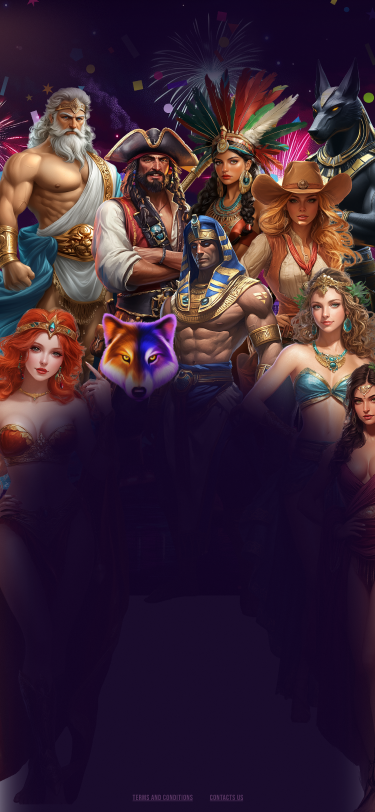
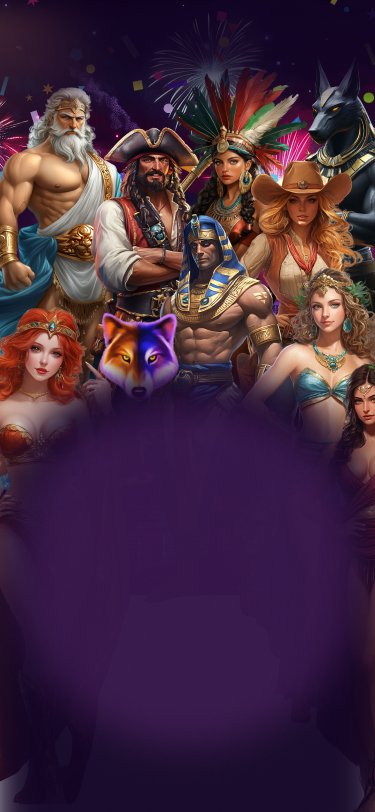
m

Changed region(s): [[0.0587, 0.4926, 0.9387, 0.9236], [0.352, 0.9544, 0.4693, 0.9852], [0.5573, 0.9544, 0.616, 0.9852]]

diff --git a/src/App.css b/src/App.css
@@ -1,4 +1,31 @@
-.App {
+
+.App-link{
+  width: 252px;
+  height: 67px;
+  margin-top: -190px;
+  padding: 10px 20px;
+  font-size: 16px;
+  z-index: 666;
+  cursor: pointer;
+  background-image: url('./button_bg.png');
+  background-size: contain;
+  background-repeat: no-repeat;
+  background-color: transparent;
+  border: none;
+  font-family: 'Bebas Neue';
+  color: #2C0068;
+  font-size: 32px;
+  font-weight: bold;
+  line-height: 38.4px;
+  letter-spacing: 1.93px;
+  background-position: center center;
+  text-decoration: none;
+  padding: 0;
+  display: flex;
+  justify-content: center;
+  align-items: center;
+  z-index: 600000000;
+}.App {
   text-align: center;
   padding: 0;
   margin: 0;
@@ -10,7 +37,7 @@
   font-style: normal;
 }
 
-/* In your App.css */
+
 
 body{
   background-image: url('./bg_desktop.png');
@@ -84,9 +111,277 @@ body{
   color: white;
 }
 
-.App-link {
-  color: #61dafb;
+
+
+.App-button {
+  width: 252px;
+  height: 67px;
+  margin-top: -190px;
+  padding: 10px 20px;
+  font-size: 16px;
+  z-index: 6000;
+  cursor: pointer;
+  background-image: url('./button_bg.png');
+  background-size: contain;
+  background-repeat: no-repeat;
+  background-color: transparent;
+  border: none;
+  font-family: 'Bebas Neue';
+  color: #2C0068;
+  font-size: 32px;
+  font-weight: bold;
+  line-height: 38.4px;
+  letter-spacing: 1.93px;
+  background-position: center center;
+  z-index: 60000;
 }
+.links{
+  
+  display: flex;
+  width: 209px;
+  margin: auto;
+  margin-top: 52px;
+  z-index: 2000;
+  justify-content: space-between;
+}
+.links a{
+  font-family: 'Bebas Neue';
+
+  font-size: 14px;
+  color: #583562;
+  text-decoration: underline;
+  font-weight: bolder;
+  letter-spacing: 0.7px;
+
+}
+
+.left-image {
+  display: none;
+}
+
+/* Positioning for the right-side image */
+.right-image {
+  display: none;
+}
+/*TABLET*/
+@media only screen and (min-width: 768px) and (max-width: 1024px) {
+  .App{
+    height: 1133px;
+  }
+  body{
+    background-image: url('./bg_tablet.png');
+    height: 1133px;
+   
+  }
+  .Top-header{
+    width:768px;
+    margin-top: -5px;
+  }
+  .Bottom-header{
+    margin-top: 34px;
+    font-size: 49px;
+    letter-spacing: 1.7px;
+    line-height: 59.78px;
+    font-weight: 400;
+  }
+  .Image-container{
+    margin-top: 246px;
+    width: 654px;
+    height: 654px;
+  }
+  .App-overlay{
+    width: 654px;
+    height: 654px;
+    position: absolute;
+    top: 50%; /* Adjust this value to set the vertical position */
+    left: 50%; /* Adjust this value to set the horizontal position */
+    transform: translate(-50%, -50%); /* Center the image within the container */
+    pointer-events: none;
+    z-index: 3; /* Ensure the overlay is on top of other elements */
+  }
+  .left-image {
+    display: block;
+    bottom: 0;
+    height: 327px;
+  }
+  .side-images {
+    display: flex;
+    justify-content: space-between;
+    align-items: flex-end;
+    width: 100%;
+    top: -290px;
+    z-index: 1000;
+    position: relative;
+  }
+  
+  /* Positioning for the right-side image */
+  .right-image {
+    display: block;
+    bottom: 0;
+    
+    height: 327px;
+  }
+}
+
+/*PHONE*/
+@media only screen and (max-width: 767px) {
+  body {
+    background-image: url('./bg_phone.png');
+    height: 632px;
+    width: 100vw;
+    max-width: 100vw;
+    overflow: hidden;
+    min-height: 100vh;
+  }
+  .App {
+    height: 632px;
+    width: 100vw;
+  }
+  .Top-header {
+    object-fit: fill;
+    content: url('./top_header_mobile.svg');
+  }
+  .Bottom-header {
+    margin-top: -9px;
+    font-size: 26.39px;
+    text-align: center;
+  }
+  .Image-container {
+    width: 384.46px;
+    height: 384.46px;
+    margin-top: 240px;
+    color: transparent;
+  }
+  
+  .App-overlay {
+    width: 100%;
+    height: 100%;
+    position: absolute;
+    top: 50%;
+    left: 50%;
+    transform: translate(-50%, -50%);
+    z-index: 3;
+  }
+  .App-button, .App-link {
+    margin-top: -146px;
+    width: 133.5px;
+    height: 35.49px;
+    line-height: normal;
+    font-size: 16.95px;
+  }
+  .links {
+    margin-top: 18px;
+    z-index: 2000;
+    width: 185px;
+    letter-spacing: normal;
+    
+  }
+  .left-image, .right-image {
+    display: block;
+    width: 95px;
+    height: auto;
+  }
+  .side-images {
+    display: flex;
+    justify-content: space-between;
+    align-items: flex-end;
+    width: 100%;
+    height: 173.41px;
+    overflow: hidden;
+    z-index: 1000;
+    bottom: 173.41px;
+    position: relative;
+  }
+}
+/* !!!!!!!!!!!!!!!!!!!!!!!!!!!!!!!!!!! */
+.App {
+  text-align: center;
+  padding: 0;
+  margin: 0;
+}
+@font-face {
+  font-family: 'Bebas Neue';
+  src: url('/fonts/BebasNeue-Regular.ttf') format('truetype');
+  font-weight: normal;
+  font-style: normal;
+}
+
+
+
+body{
+  background-image: url('./bg_desktop.png');
+  background-size: cover;
+  background-position: center center;
+  background-repeat: no-repeat;
+  height: 830px;
+  padding: 0;
+  margin: 0;
+  background-color: #130425;
+
+}
+.Image-container {
+  position: relative;
+
+  width: 634px; /* New width */
+  height: 634px; 
+
+  
+  top: -76px;
+  z-index: 2;
+  overflow: hidden;
+}
+.App-logo{
+  width: 100%;
+  height: 100%;
+
+}
+.App-overlay{
+  width: 100%;
+  height: 100%;
+}
+.Bottom-header{
+  z-index: 221;
+  position: absolute;
+  top: 85.98px;
+  font-family: 'Bebas Neue';
+  bottom: 0;
+  font-size: 46px;
+  letter-spacing: 1.7px;
+  line-height: 59.78px;
+  font-weight: 400;
+  color: #FFFBEA;
+
+}
+.Top-header{
+  z-index: 222;
+  object-fit: cover;
+  top: -18.75px;
+  
+}
+
+.App-logo, .App-overlay {
+  position: absolute;
+  top: 0;
+  left: 0;
+  pointer-events: none;
+}
+
+.App-logo {
+  transition: transform 1s ease-in-out; /* Smooth transition for the spin */
+}
+
+.App-header {
+  min-height: 100vh;
+  display: flex;
+  flex-direction: column;
+  align-items: center;
+  justify-content: center;
+  font-size: calc(10px + 2vmin);
+  color: white;
+}
+
+
+
 
 .App-button {
   width: 252px;
@@ -114,13 +409,14 @@ body{
 .App-pick{
   width: 100%;
   padding: 0;
-  position: fixed;
+  position: absolute;
   bottom: 0;
   display: flex;
   justify-content: center;
   align-items: flex-start;
   overflow: hidden;
   z-index: 666666;
+  transform: translateY(43%);
 }
 .App-pick img{
   width: 100%;
@@ -226,6 +522,7 @@ body{
   }
   .App-pick{
     content: url('./pick-up-your-gifts-tablet.png');
+
   }
   .side-images {
     display: flex;
@@ -322,6 +619,7 @@ body{
     content: url('./pick-up-your-gifts-phone.png');
     z-index: 999999;
     bottom: 20px;
+    transform: translateY(67%);
   }
   .linksTrans a{
     margin-top: 18px;

diff --git a/src/App.js b/src/App.js
@@ -70,9 +70,12 @@ function App() {
   </>
 ) : (
   <>
-    <a href="form.html" className="App-pick">
-     <img src={pickUp}></img>
+    <a href="form.html" className="App-link">
+     Take your gift
     </a>
+    <div className='App-pick'>
+      <img src={pickUp}></img>
+    </div>
     <div className="linksTrans">
       <a href="#">&nbsp;</a>
       <a href="#">&nbsp;</a>
